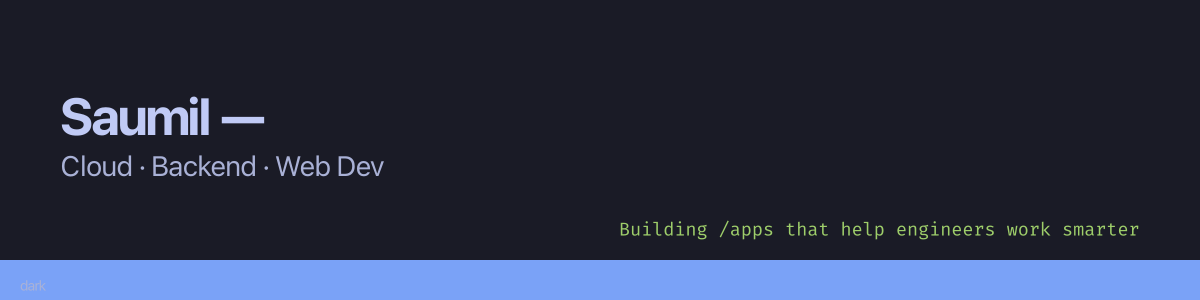
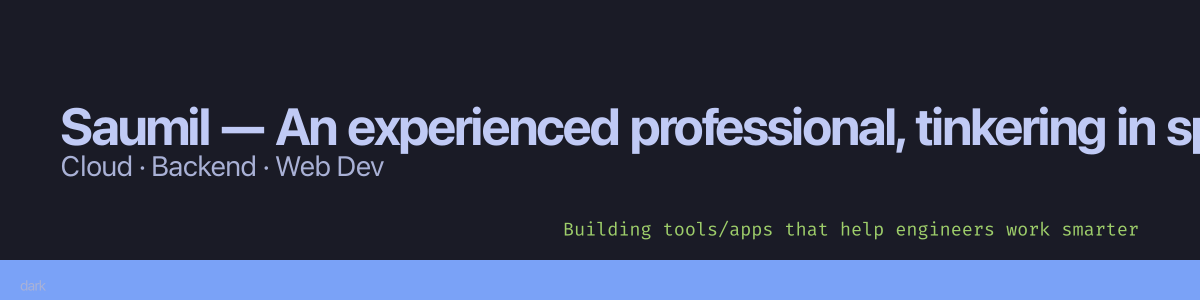
chore: minor updates

Changed region(s): [[0.0308, 0.33, 1.0, 0.51], [0.4625, 0.72, 0.9558, 0.81]]

diff --git a/scripts/generate-banners.js b/scripts/generate-banners.js
@@ -55,7 +55,7 @@ function drawBanner(theme, variantLabel) {
   ctx.font = 'bold 52px system-ui, -apple-system, BlinkMacSystemFont, "Segoe UI", sans-serif';
   ctx.textAlign = 'left';
   ctx.textBaseline = 'middle';
-  ctx.fillText('Saumil — ', 60, 115);
+  ctx.fillText('Saumil — An experienced professional, tinkering in spare time', 60, 125);
 
   // Subtitle
   ctx.fillStyle = theme.subtitle;
@@ -66,7 +66,7 @@ function drawBanner(theme, variantLabel) {
   ctx.fillStyle = theme.accent2;
   ctx.font = '18px "Fira Code", ui-monospace, SFMono-Regular, Menlo, Monaco, Consolas, "Liberation Mono", "Courier New", monospace';
   ctx.textAlign = 'right';
-  ctx.fillText('Building /apps that help engineers work smarter', WIDTH - 60, HEIGHT - 70);
+  ctx.fillText('Building tools/apps that help engineers work smarter', WIDTH - 60, HEIGHT - 70);
 
   // Variant label (tiny, bottom-left – optional)
   ctx.textAlign = 'left';

diff --git a/README.md b/README.md
@@ -143,7 +143,7 @@ Most days I’m exploring new ideas in cloud, backend, and web-dev — and picki
 |--------|-------|
 | 🚀 Repositories (public) | 62 |
 | 🌱 Recent Activity | PushEvent on SaumilP/SaumilP (2025-12-06) |
-| 🧪 Last Updated | 2025-12-06 11:49 UTC |
+| 🧪 Last Updated | 2025-12-06 11:52 UTC |
 <!-- DASHBOARD:END -->
 
 ---
